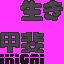
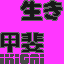
Update Title Screen Graphics

diff --git a/src/title_screen.c b/src/title_screen.c
@@ -35,9 +35,9 @@ enum {
 #define VERSION_BANNER_RIGHT_X 217
 #define VERSION_BANNER_Y 2
 #define VERSION_BANNER_Y_GOAL 72
-#define START_BANNER_X 130
-#define START_BANNER_Y 113
-#define START_COPYRIGHT_X 128
+#define START_BANNER_X 190
+#define START_BANNER_Y 111
+#define START_COPYRIGHT_X 188
 #define START_COPYRIGHT_Y 148
 #define IKIGAI_VERSION_NUMBER_X 205
 #define IKIGAI_VERSION_NUMBER_Y 34
@@ -87,8 +87,8 @@ static const u32 sTitleScreenLogoShineGfx[] = INCBIN_U32("graphics/title_screen/
 #else
     static const u32 sTitleScreenLogoIkigaiVersionNumber[] = INCBIN_U32("graphics/title_screen/ikigai_version_number_blank.4bpp.lz");
 #endif
-static const u32 sTitleScreenLogoIkigaiVersionNumberPal_Blue[] = INCBIN_U32("graphics/title_screen/ikigai_version_number_blue.gbapal.lz");
-static const u32 sTitleScreenLogoIkigaiVersionNumberPal_Pink[] = INCBIN_U32("graphics/title_screen/ikigai_version_number_pink.gbapal.lz");
+static const u32 sTitleScreenLogoIkigaiVersionNumberPal_Blue[] = INCBIN_U32("graphics/title_screen/ikigai_title_screen_blue.gbapal.lz");
+static const u32 sTitleScreenLogoIkigaiVersionNumberPal_Pink[] = INCBIN_U32("graphics/title_screen/ikigai_title_screen_pink.gbapal.lz");
 
 
 
@@ -356,10 +356,19 @@ static const struct CompressedSpriteSheet sSpriteSheet_PressStart[] =
     {},
 };
 
-static const struct SpritePalette sSpritePalette_PressStart[] =
+static const struct SpritePalette sSpritePalette_PressStart_Blue[] =
 {
     {
-        .data = gTitleScreenPressStartStonePal,
+        .data = gIkigaiTitleScreenPal_Blue,
+        .tag = TAG_PRESS_START_COPYRIGHT
+    },
+    {},
+};
+
+static const struct SpritePalette sSpritePalette_PressStart_Pink[] =
+{
+    {
+        .data = gIkigaiTitleScreenPal_Pink,
         .tag = TAG_PRESS_START_COPYRIGHT
     },
     {},
@@ -761,8 +770,30 @@ void CB2_InitTitleScreen(void)
         LoadCompressedSpriteSheet(&sSpriteSheet_IkigaiVersion[0]);
         LoadCompressedSpriteSheet(&sSpriteSheet_PressStart[0]);
         LoadCompressedSpriteSheet(&sPokemonLogoShineSpriteSheet[0]);
-        LoadPalette(gTitleScreenIkigaiVersionStonePal, OBJ_PLTT_ID(0), PLTT_SIZE_4BPP);
-        LoadSpritePalette(&sSpritePalette_PressStart[0]);
+        switch (gIkigaiLegendaryScreen)
+        {
+        case IKIGAI_INTERFACE_GREEN:
+        case IKIGAI_INTERFACE_BLUE:
+            LoadPalette(gIkigaiTitleScreenPal_Pink, OBJ_PLTT_ID(0), PLTT_SIZE_4BPP);
+            break;
+        
+        case IKIGAI_INTERFACE_ORANGE:
+        case IKIGAI_INTERFACE_PINK:
+            LoadPalette(gIkigaiTitleScreenPal_Blue, OBJ_PLTT_ID(0), PLTT_SIZE_4BPP);
+            break;
+        }
+        switch (gIkigaiLegendaryScreen)
+        {
+        case IKIGAI_INTERFACE_GREEN:
+        case IKIGAI_INTERFACE_BLUE:
+            LoadSpritePalette(&sSpritePalette_PressStart_Pink[0]);
+            break;
+        
+        case IKIGAI_INTERFACE_ORANGE:
+        case IKIGAI_INTERFACE_PINK:
+            LoadSpritePalette(&sSpritePalette_PressStart_Blue[0]);
+            break;
+        }
         LoadCompressedSpriteSheet(sSpriteSheet_IkigaiVersionNumber);
         switch (gIkigaiLegendaryScreen)
         {

diff --git a/src/graphics.c b/src/graphics.c
@@ -2090,10 +2090,9 @@ const u32 gTitleScreenEnamorusBorderTilemap[]            = INCBIN_U32("graphics/
 const u32 gTitleScreenPokemonLogoGfx[]                   = INCBIN_U32("graphics/title_screen/pokemon_logo.8bpp.lz");
 const u32 gTitleScreenPokemonLogoTilemap[]               = INCBIN_U32("graphics/title_screen/pokemon_logo.bin.lz");
 const u32 gTitleScreenPressStartGfx[]                    = INCBIN_U32("graphics/title_screen/press_start.4bpp.lz");
-const u16 gTitleScreenPressStartStonePal[]               = INCBIN_U16("graphics/title_screen/press_start_stone_dark.gbapal");
-const u16 gTitleScreenPressStartStoneLightPal[]          = INCBIN_U16("graphics/title_screen/press_start_stone_light.gbapal");
 const u32 gTitleScreenIkigaiVersionGfx[]                 = INCBIN_U32("graphics/title_screen/ikigai_version.8bpp.lz");
-const u16 gTitleScreenIkigaiVersionStonePal[]            = INCBIN_U16("graphics/title_screen/ikigai_version.gbapal");
+const u16 gIkigaiTitleScreenPal_Blue[]                   = INCBIN_U16("graphics/title_screen/ikigai_title_screen_blue.gbapal");
+const u16 gIkigaiTitleScreenPal_Pink[]                   = INCBIN_U16("graphics/title_screen/ikigai_title_screen_pink.gbapal");
 // const u16 gTitleScreenIkigaiVersionNormalPal[]           = INCBIN_U16("graphics/title_screen/ikigai_palettes/normal.gbapal");
 
 const u16 gFrontierPassBg_Pal[]                          = INCBIN_U16("graphics/frontier_pass/bg.gbapal"); // 8 x 16

diff --git a/include/graphics.h b/include/graphics.h
@@ -2066,10 +2066,9 @@ extern const u32 gTitleScreenEnamorusBorderTilemap[];
 extern const u32 gTitleScreenPokemonLogoGfx[];
 extern const u32 gTitleScreenPokemonLogoTilemap[];
 extern const u32 gTitleScreenPressStartGfx[];
-extern const u16 gTitleScreenPressStartStonePal[];
-extern const u16 gTitleScreenPressStartStoneLightPal[];
 extern const u32 gTitleScreenIkigaiVersionGfx[];
-extern const u16 gTitleScreenIkigaiVersionStonePal[];
+extern const u16 gIkigaiTitleScreenPal_Blue[];
+extern const u16 gIkigaiTitleScreenPal_Pink[];
 // extern const u16 gTitleScreenIkigaiVersionNormalPal[];
 
 // Battle Dome
